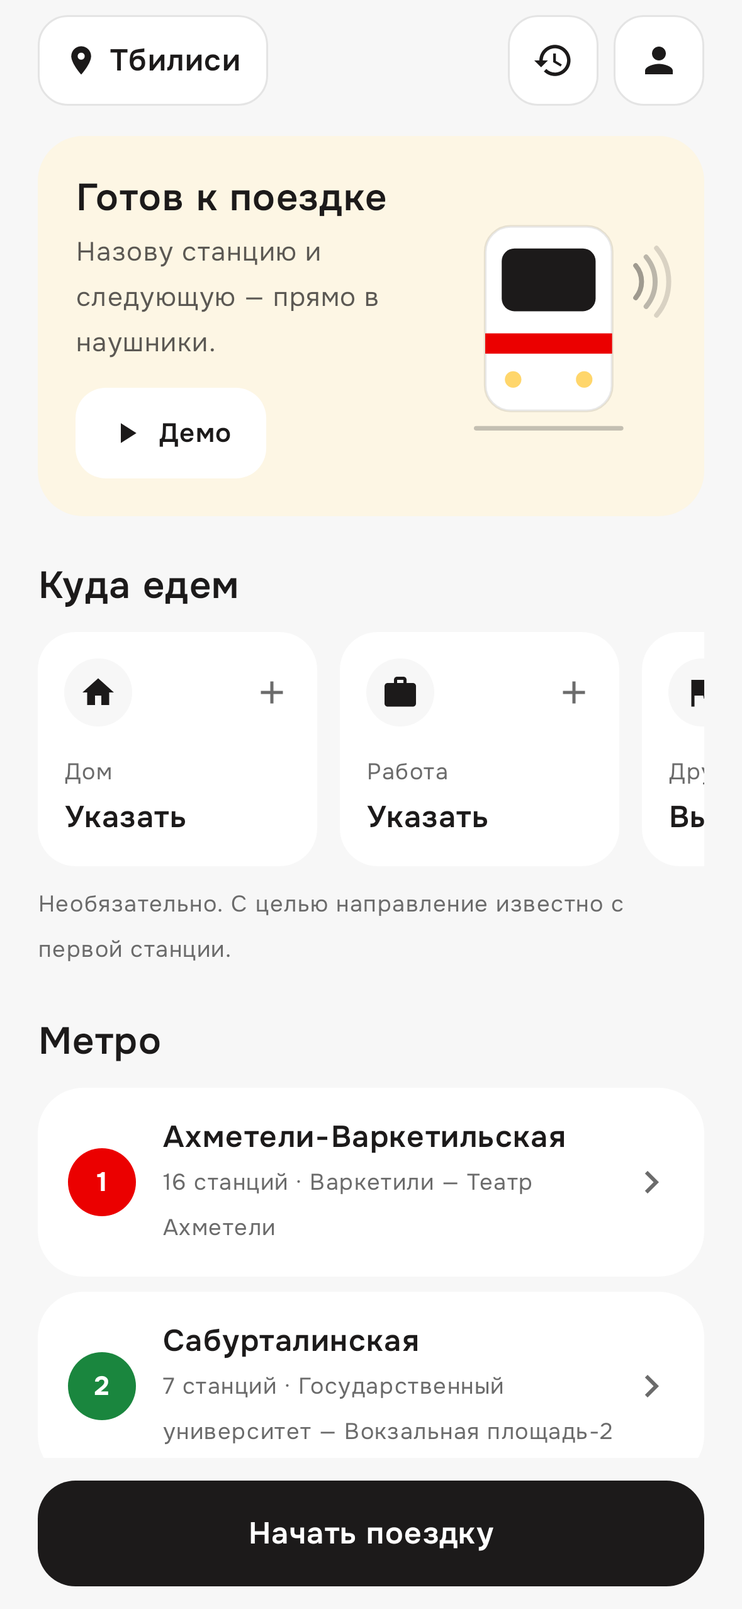
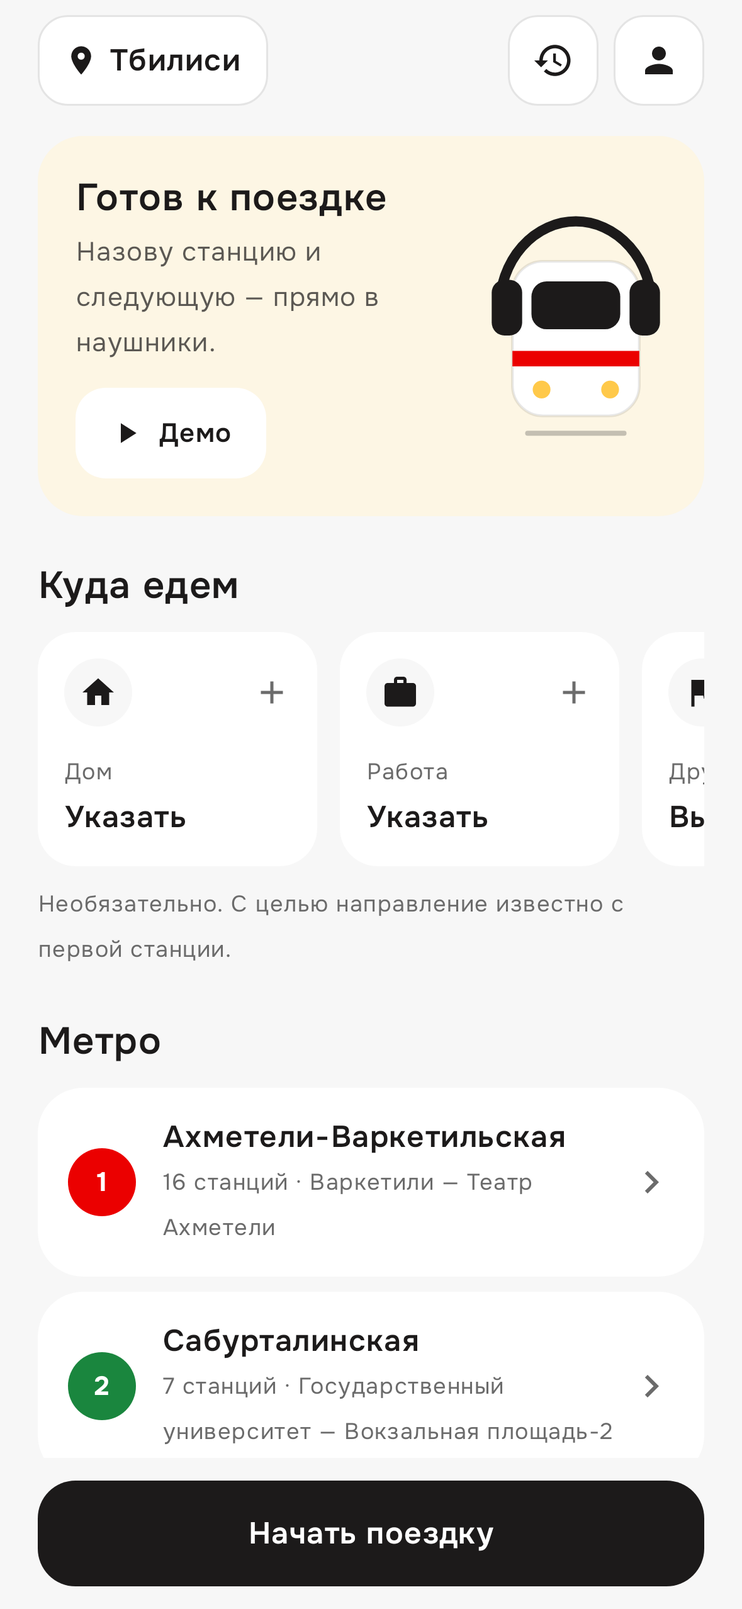
Say goodbye at the destination; mascot in headphones
- With a destination set: 'this is your stop' on the station before and on
  approach, a goodbye on arrival, and no 'next station' after it
- The destination belongs to one ride and is cleared when the trip ends
- Launcher icon and in-app illustration: the train now wears headphones

Claude-Session: https://claude.ai/code/session_01LgcZnsWEvuykXZC56yduzi

Changed region(s): [[0.6412, 0.1236, 0.916, 0.2782]]

diff --git a/metro-voice/core/src/main/kotlin/metrovoice/core/announce/Announcer.kt b/metro-voice/core/src/main/kotlin/metrovoice/core/announce/Announcer.kt
@@ -11,6 +11,8 @@ enum class AnnouncementKind {
     APPROACHING,
     NEXT_STATION,
     DIRECTION_UNKNOWN,
+    /** The rider's destination is reached: a goodbye instead of "next station". */
+    ARRIVED,
 }
 
 /**
@@ -35,6 +37,9 @@ object Phrases {
             "approaching" to "Arriving at {station}.",
             "next" to "Next station: {station}.",
             "direction_unknown" to "Confirming direction at the next station.",
+            "next_destination" to "Next station: {station}. This is your stop.",
+            "approaching_destination" to "Arriving at {station}. This is your stop.",
+            "arrived" to "You have arrived. Have a great day!",
         ),
         "ru" to mapOf(
             "station" to "Станция {station}.",
@@ -42,6 +47,9 @@ object Phrases {
             "approaching" to "Подъезжаем к станции {station}.",
             "next" to "Следующая станция — {station}.",
             "direction_unknown" to "Направление уточню на следующей станции.",
+            "next_destination" to "Следующая станция — {station}. Вам выходить.",
+            "approaching_destination" to "Подъезжаем к станции {station}. Ваша остановка.",
+            "arrived" to "Приехали. Хорошего дня!",
         ),
     )
 
@@ -69,11 +77,26 @@ class Announcer(
     private var lastStationSaid: String? = null
     private var lastNextSaid: String? = null
     private var directionWarningGiven = false
+    private var arrivedSaidFor: String? = null
+    /** Stations announced on this ride: "you have arrived" needs a ride, not a destination equal to the entry station. */
+    private val seen = HashSet<String>()
+
+    /**
+     * Where the rider is going. The station before it is announced with "this is your stop", and at
+     * the destination the rider hears a goodbye instead of the next station.
+     */
+    var destination: String? = null
+        set(value) {
+            if (field != value) arrivedSaidFor = null
+            field = value
+        }
 
     fun reset() {
         lastStationSaid = null
         lastNextSaid = null
         directionWarningGiven = false
+        arrivedSaidFor = null
+        seen.clear()
     }
 
     /** Call whenever the estimate may say "standing at a station": after a stop, a fix, or user input. */
@@ -82,10 +105,20 @@ class Announcer(
         if (current.probability < threshold || estimate.atStationProbability < threshold) return emptyList()
         val out = mutableListOf<Announcement>()
 
+        val atDestination = current.stationId == destination && (seen - current.stationId).isNotEmpty()
         if (current.stationId != lastStationSaid) {
             lastStationSaid = current.stationId
             lastNextSaid = null
-            out += stationPhrase(AnnouncementKind.STATION, "station", current.stationId, current.lineId)
+            seen += current.stationId
+            out += stationPhrase(AnnouncementKind.STATION, "station", current.stationId, current.lineId, transfers = !atDestination)
+        }
+        if (atDestination) {
+            // Journey over: no "next station", no talk about direction.
+            if (arrivedSaidFor != current.stationId) {
+                arrivedSaidFor = current.stationId
+                out += languages.map { lang -> Announcement(AnnouncementKind.ARRIVED, current.stationId, lang, Phrases.get(lang, "arrived")) }
+            }
+            return out
         }
 
         val next = nextToSay(estimate)
@@ -110,11 +143,16 @@ class Announcer(
         if (approach.stationId == lastStationSaid) return emptyList()
         lastStationSaid = approach.stationId
         lastNextSaid = null
-        return stationPhrase(AnnouncementKind.APPROACHING, "approaching", approach.stationId, approach.lineId)
+        seen += approach.stationId
+        val mine = approach.stationId == destination
+        return stationPhrase(
+            AnnouncementKind.APPROACHING, if (mine) "approaching_destination" else "approaching",
+            approach.stationId, approach.lineId, transfers = !mine,
+        )
     }
 
-    private fun stationPhrase(kind: AnnouncementKind, template: String, stationId: String, lineId: String): List<Announcement> {
-        val transferLines = network.transferLines(lineId, stationId)
+    private fun stationPhrase(kind: AnnouncementKind, template: String, stationId: String, lineId: String, transfers: Boolean = true): List<Announcement> {
+        val transferLines = if (transfers) network.transferLines(lineId, stationId) else emptyList()
         return languages.map { lang ->
             var text = Phrases.get(lang, template).replace("{station}", name(stationId, lang))
             if (transferLines.isNotEmpty()) {
@@ -136,7 +174,7 @@ class Announcer(
         return languages.map { lang ->
             Announcement(
                 AnnouncementKind.NEXT_STATION, next.stationId, lang,
-                Phrases.get(lang, "next").replace("{station}", name(next.stationId, lang)),
+                Phrases.get(lang, if (next.stationId == destination) "next_destination" else "next").replace("{station}", name(next.stationId, lang)),
             )
         }
     }

diff --git a/metro-voice/app/src/main/kotlin/metrovoice/app/ui/Components.kt b/metro-voice/app/src/main/kotlin/metrovoice/app/ui/Components.kt
@@ -225,45 +225,49 @@ fun Tag(text: String, color: Color, arrowDown: Boolean? = null) {
 }
 
 /**
- * Front of a train with sound waves: the app's one illustration, drawn in code so it follows the theme
- * and the line colour. A slot for richer artwork per transport mode later ([mode]).
+ * The app's mascot: the front of a train wearing headphones. Drawn in code so it follows the theme
+ * and the line colour; same shapes as the launcher icon. A slot for richer artwork per mode later.
  */
 @Composable
 fun ModeIllustration(mode: String, accent: Color, modifier: Modifier = Modifier) {
     val p = LocalPalette.current
     val body = if (p.dark) Color(0xFF2B2B2B) else Color.White
     val glass = if (p.dark) Color(0xFF0E0E0E) else p.ink
+    val phones = if (p.dark) Color(0xFFF2F2F2) else p.ink
     val rail = p.ink.copy(alpha = 0.25f)
     Canvas(modifier) {
         val w = size.width
         val h = size.height
         val bw = w * 0.56f
-        val bh = h * 0.74f
-        val left = w * 0.10f
-        val top = h * 0.10f
-        val r = CornerRadius(bw * 0.20f)
+        val bh = h * 0.62f
+        val left = (w - bw) / 2
+        val top = h * 0.24f
+        val r = CornerRadius(bw * 0.24f)
         // Tram and bus get a flatter roof; the train is taller. Enough to tell them apart at a glance.
         val roof = if (mode == "subway") 0f else bh * 0.10f
+        // Headband first, so the body covers its ends.
+        val bandW = bw * 1.20f
+        val bandTop = top - h * 0.16f
+        drawArc(
+            phones, startAngle = 180f, sweepAngle = 180f, useCenter = false,
+            topLeft = Offset((w - bandW) / 2, bandTop), size = Size(bandW, (top + bh * 0.30f - bandTop) * 2),
+            style = Stroke(w * 0.045f, cap = StrokeCap.Round),
+        )
         drawRoundRect(body, Offset(left, top + roof), Size(bw, bh - roof), r)
         drawRoundRect(p.ink.copy(alpha = 0.10f), Offset(left, top + roof), Size(bw, bh - roof), r, style = Stroke(w * 0.012f))
-        drawRoundRect(glass, Offset(left + bw * 0.13f, top + roof + bh * 0.12f), Size(bw * 0.74f, bh * 0.34f), CornerRadius(bw * 0.10f))
-        drawRect(accent, Offset(left, top + bh * 0.58f), Size(bw, bh * 0.11f))
+        drawRoundRect(glass, Offset(left + bw * 0.15f, top + roof + bh * 0.13f), Size(bw * 0.70f, bh * 0.31f), CornerRadius(bw * 0.12f))
+        drawRect(accent, Offset(left, top + bh * 0.58f), Size(bw, bh * 0.10f))
         val lampY = top + bh * 0.83f
-        drawCircle(Color(0xFFFFD66B), bw * 0.065f, Offset(left + bw * 0.22f, lampY))
-        drawCircle(Color(0xFFFFD66B), bw * 0.065f, Offset(left + bw * 0.78f, lampY))
+        drawCircle(Color(0xFFFFC94A), bw * 0.07f, Offset(left + bw * 0.23f, lampY))
+        drawCircle(Color(0xFFFFC94A), bw * 0.07f, Offset(left + bw * 0.77f, lampY))
+        // Ear cups over the sides of the cab.
+        val cupW = bw * 0.24f
+        val cupH = bh * 0.36f
+        val cupY = top + bh * 0.12f
+        drawRoundRect(phones, Offset(left - cupW * 0.68f, cupY), Size(cupW, cupH), CornerRadius(cupW * 0.42f))
+        drawRoundRect(phones, Offset(left + bw - cupW * 0.32f, cupY), Size(cupW, cupH), CornerRadius(cupW * 0.42f))
         val railY = top + bh + h * 0.07f
-        drawLine(rail, Offset(left - w * 0.04f, railY), Offset(left + bw + w * 0.04f, railY), w * 0.02f, StrokeCap.Round)
-        // Sound waves: the announcements.
-        val cx = left + bw + w * 0.02f
-        val cy = top + bh * 0.30f
-        for (i in 1..3) {
-            val rad = w * (0.05f + 0.06f * i)
-            drawArc(
-                p.ink.copy(alpha = 0.55f - 0.13f * i), startAngle = -40f, sweepAngle = 80f, useCenter = false,
-                topLeft = Offset(cx - rad, cy - rad), size = Size(rad * 2, rad * 2),
-                style = Stroke(w * 0.022f, cap = StrokeCap.Round),
-            )
-        }
+        drawLine(rail, Offset(left + bw * 0.12f, railY), Offset(left + bw * 0.88f, railY), w * 0.022f, StrokeCap.Round)
     }
 }
 

diff --git a/metro-voice/app/src/main/kotlin/metrovoice/app/ui/Screens.kt b/metro-voice/app/src/main/kotlin/metrovoice/app/ui/Screens.kt
@@ -303,7 +303,9 @@ fun TripScreen(
     val searching = !outside && e?.current == null && next == null
     val lineId = atStation?.lineId ?: next?.lineId
     // Direction of travel as the terminus ahead — shown only when the tracker is sure.
-    val towards = e?.towards?.takeIf { it.probability >= 0.85 && it.lineId == lineId }
+    // Standing at the chosen destination: the ride is over, nothing about what comes next.
+    val arrived = atStation != null && atStation.stationId == state.destination
+    val towards = e?.towards?.takeIf { it.probability >= 0.85 && it.lineId == lineId && !arrived }
     val onTint = p.ink.copy(alpha = 0.72f) // secondary text on a tinted card: muted grey would drop below 4.5:1
     val fallbackLine = lineId ?: network.lines.first().id
 
@@ -366,6 +368,7 @@ fun TripScreen(
                 when {
                     outside -> "ВНЕ МЕТРО"
                     searching -> "ИЩУ СТАНЦИЮ"
+                    arrived -> "ВЫ ПРИЕХАЛИ"
                     atStation != null -> "СТАНЦИЯ"
                     nextKnown != null -> "ЕДЕМ К СТАНЦИИ"
                     else -> "В ПУТИ"
@@ -384,6 +387,7 @@ fun TripScreen(
             )
             when {
                 outside -> Text("Поездка завершится сама через пару минут.", fontSize = 16.sp, modifier = Modifier.padding(top = 8.dp))
+                arrived -> Text("Это ваша станция. Хорошего дня!", fontSize = 16.sp, modifier = Modifier.padding(top = 8.dp))
                 atStation != null -> {
                     Spacer(Modifier.height(12.dp))
                     if (nextKnown != null) {
@@ -412,7 +416,8 @@ fun TripScreen(
         if (lineId != null) {
             val line = network.line(lineId)
             CardSurface(Modifier.fillMaxWidth().padding(top = 12.dp), padding = PaddingValues(start = 12.dp, end = 16.dp, top = 12.dp, bottom = 8.dp)) {
-                RouteWindow(network, line, atStation?.stationId, next?.stationId, nextKnown != null, state.destination, towards?.stationId)
+                // At the destination nothing is "next": the list only shows where the rider is.
+                RouteWindow(network, line, atStation?.stationId, next?.stationId.takeIf { !arrived }, nextKnown != null, state.destination, towards?.stationId)
                 Row(Modifier.fillMaxWidth(), horizontalArrangement = Arrangement.End) {
                     TextButton(onClick = { onOpenLine(line.id) }) { Text("Вся линия") }
                 }

diff --git a/metro-voice/core/src/test/kotlin/metrovoice/core/SimulationTest.kt b/metro-voice/core/src/test/kotlin/metrovoice/core/SimulationTest.kt
@@ -48,6 +48,37 @@ class SimulationTest {
     }
 
     @Test
+    fun atTheDestinationTheRiderHearsGoodbyeNotTheNextStation() {
+        val legs = listOf(metrovoice.core.sim.Leg("1", "liberty-square", "station-square-1"))
+        for (handheld in listOf(false, true)) {
+            val ride = RideSimulator.generate(network, legs, metrovoice.core.sim.SimOptions(handheld = handheld, destination = "station-square-1"))
+            val spoken = metrovoice.core.trace.TraceReplayer
+                .replayRecords(ride.records.asSequence(), network, listOf("en"), "station-square-1").spoken
+            val texts = spoken.map { it.announcement.text }
+            val arrival = ride.truth.last().arrive
+
+            assertTrue("Next station: Station Square-1. This is your stop." in texts, "handheld=$handheld $texts")
+            assertEquals(1, texts.count { it == "You have arrived. Have a great day!" }, "handheld=$handheld $texts")
+            // Nothing about the station after the destination, and no transfer advice either.
+            assertTrue(texts.none { "Nadzaledevi" in it }, "handheld=$handheld $texts")
+            assertTrue(spoken.none { it.t > arrival - 30 && "Change here" in it.announcement.text }, "handheld=$handheld $texts")
+            assertEquals(texts.last(), "You have arrived. Have a great day!", "the goodbye is the last word: $texts")
+        }
+    }
+
+    @Test
+    fun destinationEqualToTheEntryStationIsNotAnArrival() {
+        val tr = metrovoice.core.engine.TripEngine(network, listOf("en"), listener = object : metrovoice.core.engine.TripEngine.Listener {
+            override fun onAnnouncements(announcements: List<metrovoice.core.announce.Announcement>) {
+                assertTrue(announcements.none { it.kind == metrovoice.core.announce.AnnouncementKind.ARRIVED }, announcements.toString())
+            }
+        })
+        tr.setDestination("didube") // yesterday's "home" still selected while entering the metro at home
+        val s = network.station("didube")
+        tr.onLocation(1.0, s.lat, s.lon, 30.0)
+    }
+
+    @Test
     fun standingAtAStationNeverRevealsDirection() {
         // First real ride: 50 near-identical fixes at the entrance, then a departure, and the app
         // claimed to know the direction before the train had gone anywhere.

diff --git a/metro-voice/app/src/main/kotlin/metrovoice/app/TripService.kt b/metro-voice/app/src/main/kotlin/metrovoice/app/TripService.kt
@@ -166,7 +166,7 @@ class TripService : LifecycleService() {
         speaker = Speaker(this) { lang -> TripBus.update { it.copy(missingVoices = it.missingVoices + lang) } }
 
         handler.post {
-            trace?.write(TraceRecord.Meta(0.0, net.graph.city, "${Build.MANUFACTURER} ${Build.MODEL} API ${Build.VERSION.SDK_INT}", "0.7.0"))
+            trace?.write(TraceRecord.Meta(0.0, net.graph.city, "${Build.MANUFACTURER} ${Build.MODEL} API ${Build.VERSION.SDK_INT}", "0.7.1"))
             engine = TripEngine(net, listOf("ru", "en"), listener = EngineListener()).also { e ->
                 TripBus.state.value.destination?.let {
                     trace?.write(TraceRecord.Dest(0.0, it))
@@ -217,7 +217,8 @@ class TripService : LifecycleService() {
         speaker?.shutdown()
         engine = null
         if (visited.size >= 2) AutoStart.sync(this) // a finished trip may change which stations count as "mine"
-        TripBus.update { it.copy(running = false, phase = "—", estimate = null, lastSaid = null) }
+        // The destination belongs to this ride: tomorrow's trip starts without yesterday's "home".
+        TripBus.update { it.copy(running = false, phase = "—", estimate = null, lastSaid = null, destination = null) }
         super.onDestroy()
     }
 
@@ -263,6 +264,7 @@ class TripService : LifecycleService() {
         val current = e.current?.takeIf { e.atStationProbability > 0.5 }
         val next = e.next?.takeIf { it.probability >= 0.85 }
         val (title, text) = when {
+            current != null && current.stationId == TripBus.state.value.destination -> name(current.stationId) to "Вы приехали. Хорошего дня!"
             current != null -> name(current.stationId) to (next?.let { "Следующая: ${name(it.stationId)}" } ?: "Направление уточняется")
             next != null -> "→ ${name(next.stationId)}" to "В пути"
             e.outside -> "Вы вышли из метро" to "Поездка скоро завершится сама"

diff --git a/metro-voice/core/src/main/kotlin/metrovoice/core/sim/RideSimulator.kt b/metro-voice/core/src/main/kotlin/metrovoice/core/sim/RideSimulator.kt
@@ -203,7 +203,7 @@ object RideEvaluator {
         for (s in spoken) {
             val a = s.announcement
             when (a.kind) {
-                AnnouncementKind.STATION, AnnouncementKind.APPROACHING -> {
+                AnnouncementKind.STATION, AnnouncementKind.APPROACHING, AnnouncementKind.ARRIVED -> {
                     // "Arriving at X" may come up to a minute before the stop; anything else about X is a false station.
                     val early = if (a.kind == AnnouncementKind.APPROACHING) APPROACH_EARLY else EARLY
                     val k = truth.indexOfFirst { it.stationId == a.stationId && s.t >= it.arrive - early && s.t <= it.depart + LATE }

diff --git a/metro-voice/app/src/test/kotlin/metrovoice/app/ScreenshotTest.kt b/metro-voice/app/src/test/kotlin/metrovoice/app/ScreenshotTest.kt
@@ -107,6 +107,14 @@ class ScreenshotTest {
         )
     }
 
+    @Test fun arrived() = shot("09b-arrived") {
+        val e = Estimate(
+            0.97, StationBelief("didube", "1", 0.96), StationBelief("ghrmaghele", "1", 0.95), 3,
+            towards = StationBelief("akhmeteli-theatre", "1", 0.95),
+        )
+        Trip(riding.copy(estimate = e))
+    }
+
     @Test fun leftTheMetro() = shot("09-left-the-metro") {
         Trip(riding.copy(estimate = Estimate(0.0, null, null, 0, outside = true)))
     }

diff --git a/metro-voice/core/src/main/kotlin/metrovoice/core/engine/TripEngine.kt b/metro-voice/core/src/main/kotlin/metrovoice/core/engine/TripEngine.kt
@@ -66,6 +66,7 @@ class TripEngine(
     /** "Going home / to work": destination may be on another line. Null clears it. */
     fun setDestination(stationId: String?) {
         tracker.setDestination(stationId)
+        announcer.destination = stationId
         publishStanding()
     }
 

diff --git a/metro-voice/tools/make_icon.py b/metro-voice/tools/make_icon.py
@@ -1,0 +1,74 @@
+import math, sys
+out_dir, res_dir = sys.argv[1], sys.argv[2]
+INK, BG, WHITE, ACCENT, LAMP = '#1C1A1A', '#D0EDF6', '#FFFFFF', '#EB4B3D', '#FFC94A'
+
+def rrect(x, y, w, h, r):
+    return (f"M{x+r},{y} H{x+w-r} A{r},{r} 0 0 1 {x+w},{y+r} V{y+h-r} A{r},{r} 0 0 1 {x+w-r},{y+h} "
+            f"H{x+r} A{r},{r} 0 0 1 {x},{y+h-r} V{y+r} A{r},{r} 0 0 1 {x+r},{y} Z")
+def circle(cx, cy, r):
+    return f"M{cx-r},{cy} A{r},{r} 0 1 0 {cx+r},{cy} A{r},{r} 0 1 0 {cx-r},{cy} Z"
+def arc(cx, cy, r, deg):
+    a = math.radians(deg); dx, dy = r*math.cos(a), r*math.sin(a)
+    return f"M{cx+dx:.2f},{cy-dy:.2f} A{r},{r} 0 0 1 {cx+dx:.2f},{cy+dy:.2f}"
+
+# The mascot: a train front wearing headphones. Fits the 66dp safe zone of an adaptive icon.
+body = rrect(39, 37, 30, 42, 8)
+glass = rrect(44, 43, 20, 14, 4)
+stripe = "M39,62 H69 V66.5 H39 Z"
+lamps = [circle(46, 72.5, 2.4), circle(62, 72.5, 2.4)]
+rail = "M45,84 H63"
+band = "M35.5,50 A18.5,24 0 0 1 72.5,50"
+cups = [rrect(31, 43, 9, 16, 3.8), rrect(68, 43, 9, 16, 3.8)]
+
+# --- colour foreground: drawn back to front. fills (path, colour), strokes (path, colour, width, alpha)
+layers = [('s', band, INK, 4.0, 1.0), ('f', body, WHITE), ('f', glass, INK), ('f', stripe, ACCENT)] + \
+    [('f', l, LAMP) for l in lamps] + [('f', c, INK) for c in cups] + [('s', rail, INK, 2.4, 0.3)]
+fills = [l[1:] for l in layers if l[0] == 'f']
+strokes = [l[1:] for l in layers if l[0] == 's']
+waves = []
+
+def vector(fills, strokes, size=108, viewport=108):
+    x = [f'<vector xmlns:android="http://schemas.android.com/apk/res/android"\n    android:width="{size}dp" android:height="{size}dp"\n    android:viewportWidth="{viewport}" android:viewportHeight="{viewport}">']
+    for d, c, w, a in strokes:
+        x.append(f'    <path android:strokeColor="{c}" android:strokeWidth="{w}" android:strokeAlpha="{a}" android:strokeLineCap="round" android:pathData="{d}" />')
+    for d, c, *rest in fills:
+        ft = ' android:fillType="evenOdd"' if rest else ''
+        x.append(f'    <path android:fillColor="{c}"{ft} android:pathData="{d}" />')
+    x.append('</vector>\n')
+    return '\n'.join(x)
+
+def svg_inner(fills, strokes):
+    s = []
+    for d, c, w, a in strokes:
+        s.append(f'<path d="{d}" fill="none" stroke="{c}" stroke-width="{w}" stroke-opacity="{a}" stroke-linecap="round"/>')
+    for d, c, *rest in fills:
+        s.append(f'<path d="{d}" fill="{c}"{" fill-rule=\"evenodd\"" if rest else ""}/>')
+    return ''.join(s)
+
+open(f'{res_dir}/drawable/ic_launcher_foreground.xml', 'w').write(vector(fills, strokes))
+
+# --- monochrome (themed icons): one colour, windows and lamps cut out of the body
+mono_body = body + ' ' + glass + ' ' + ' '.join(lamps) + ' M39,62 H69 V64 H39 Z'
+mono_fills = [(mono_body, WHITE, 'evenOdd')] + [(c, WHITE) for c in cups]
+mono_strokes = [(band, WHITE, 4.0, 1.0), (rail, WHITE, 2.4, 1.0)]
+open(f'{res_dir}/drawable/ic_launcher_monochrome.xml', 'w').write(vector(mono_fills, mono_strokes))
+
+# --- status-bar glyph, 24dp: just the train front
+def g(v): return round(v, 2)
+sb_body = rrect(6, 2.5, 12, 17, 3.2) + ' ' + rrect(8, 5, 8, 5.5, 1.4) + ' ' + circle(9, 15.8, 1.1) + ' ' + circle(15, 15.8, 1.1)
+open(f'{res_dir}/drawable/ic_stat_metro.xml', 'w').write(
+    vector([(sb_body, WHITE, 'evenOdd')], [("M7.5,22 H16.5", WHITE, 1.4, 1.0)], size=24, viewport=24))
+
+# --- preview sheet
+masks = {'circle': '<circle cx="54" cy="54" r="36"/>', 'squircle': '<rect x="18" y="18" width="72" height="72" rx="20"/>', 'square': '<rect x="18" y="18" width="72" height="72" rx="8"/>'}
+cells = []
+for i, (name, m) in enumerate(masks.items()):
+    cells.append(f'<g transform="translate({20 + i*190},20) scale(2.2) translate(-18,-18)"><clipPath id="c{i}">{m}</clipPath><g clip-path="url(#c{i})"><rect width="108" height="108" fill="{BG}"/>{svg_inner(fills, strokes)}</g></g>')
+# small sizes as on a home screen
+for i, px in enumerate((48, 36)):
+    sc = px / 72
+    cells.append(f'<g transform="translate({600 + i*70},{60}) scale({sc}) translate(-18,-18)"><clipPath id="s{i}"><circle cx="54" cy="54" r="36"/></clipPath><g clip-path="url(#s{i})"><rect width="108" height="108" fill="{BG}"/>{svg_inner(fills, strokes)}</g></g>')
+# themed (monochrome) on a dark tile and the status-bar glyph
+cells.append(f'<g transform="translate(600,130) scale(1.0) translate(-18,-18)"><clipPath id="m"><circle cx="54" cy="54" r="36"/></clipPath><g clip-path="url(#m)"><rect width="108" height="108" fill="#2B3A42"/>{svg_inner([(mono_body, "#CFE8F2", "evenOdd")] + [(c, "#CFE8F2") for c in cups], [(band, "#CFE8F2", 4.0, 1.0), (rail, "#CFE8F2", 2.4, 1.0)])}</g></g>')
+cells.append(f'<g transform="translate(700,150)"><rect width="40" height="40" rx="8" fill="#1C1A1A"/><g transform="translate(8,8)">{svg_inner([(sb_body, "#FFFFFF", "evenOdd")], [("M7.5,22 H16.5", "#FFFFFF", 1.4, 1.0)])}</g></g>')
+open(f'{out_dir}/preview.svg', 'w').write(f'<svg xmlns="http://www.w3.org/2000/svg" width="780" height="220" viewBox="0 0 780 220"><rect width="780" height="220" fill="#EDEDED"/>{"".join(cells)}</svg>')

diff --git a/metro-voice/README.md b/metro-voice/README.md
@@ -54,7 +54,7 @@
 
 - Цвета: холст `F7F7F7`, карточки `FFFFFF`, чернила `1C1A1A`, акценты `D0EDF6` (спокойный) и `FDF6E4` (тёплый). Цвета линий берутся из данных города и затемняются до контраста 4.5:1 под белый текст.
 - Шрифт: Onest (SIL OFL, `licenses/Onest-OFL.txt`). Шкала 12 / 14 / 16 / 20 / 28 / 36.
-- Иконка: векторная, адаптивная (`res/mipmap-anydpi/ic_launcher.xml`), с одноцветным слоем для тематических иконок Android 13+; значок уведомлений `ic_stat_metro`.
+- Иконка: поезд в наушниках. Векторная, адаптивная (`res/mipmap-anydpi/ic_launcher.xml`), генерируется скриптом `tools/make_icon.py`; с одноцветным слоем для тематических иконок Android 13+; значок уведомлений `ic_stat_metro`.
 - Экраны: главная (куда едем, линии по видам транспорта), поездка, линия, история, профиль.
 - Вид транспорта — поле `mode` у линии в пакете города: новые линии и трамваи добавляются данными.
 
